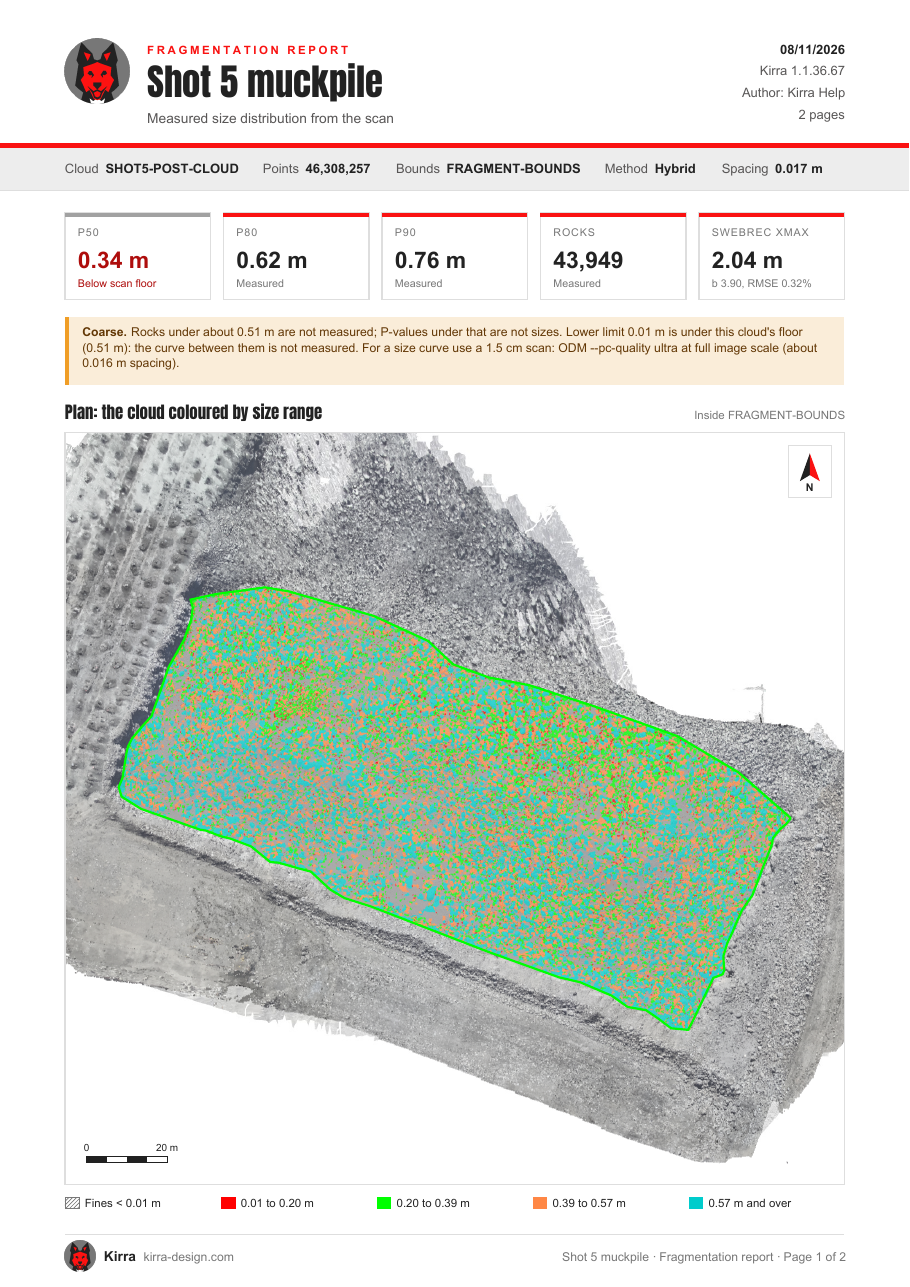
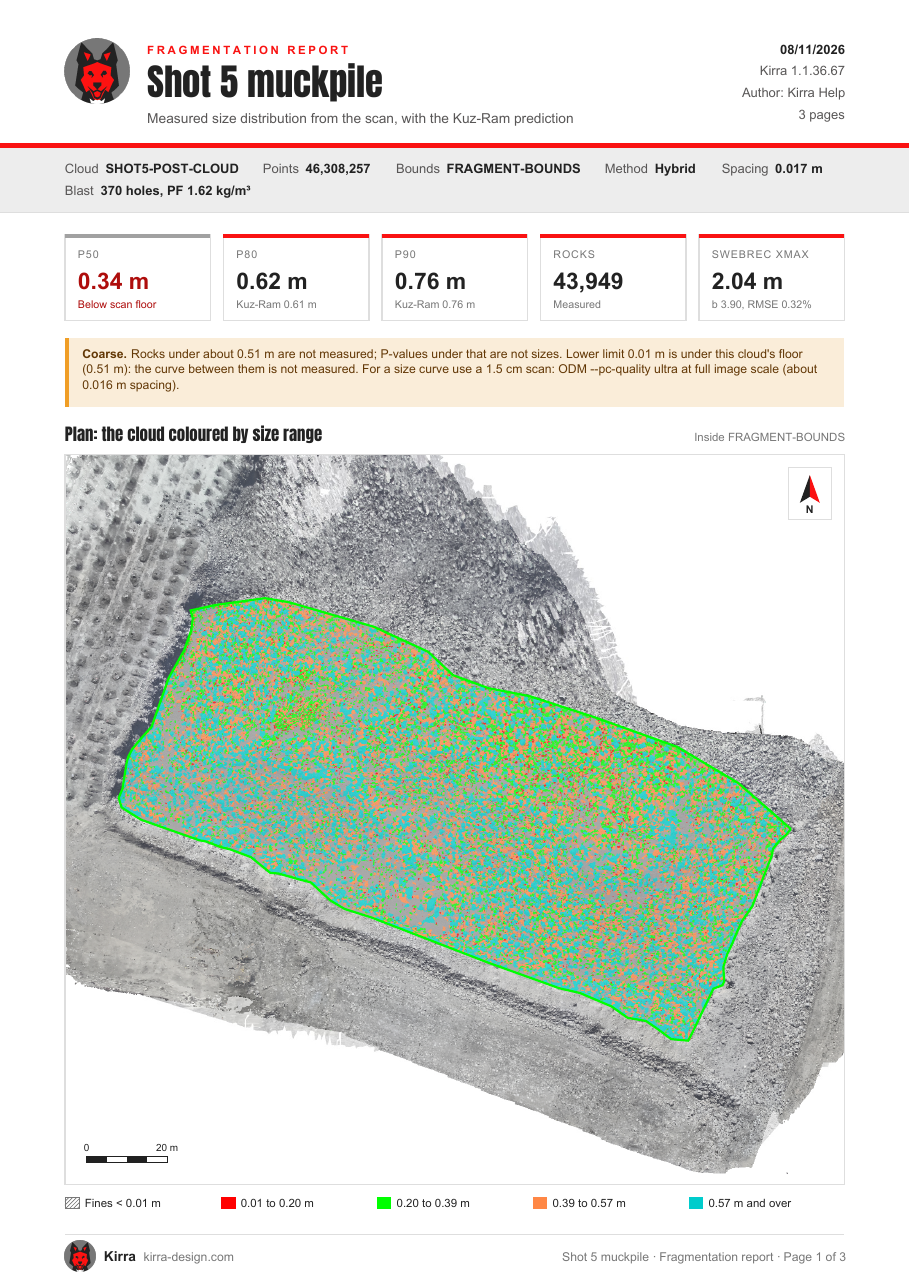
Docs: Fragments - a Kuz-Ram result (SHOT5, A 17), its curve, and the three-page report
Kuz-Ram tab with a result, the Kuz-Ram curve on the Size curve tab, report
page 3 and the preview; report pages re-rendered from the 3-page PDF.

Changed region(s): [[0.0615, 0.1243, 0.9231, 0.9324]]

diff --git a/surfaces/fragments.md b/surfaces/fragments.md
@@ -197,7 +197,22 @@ beside what the scan measured.
 | **Drilling deviation (m)**, **Rock P-wave velocity (km/s)**, **Delay scatter (ms)**, **Fallback RWS (% ANFO)** | The blast inputs the model needs beyond the holes and their charging. |
 
 The prediction is worked out from the blast's holes and their charging; each hole's rock volume is
-its burden × spacing × bench. When there is a result, the report gains a Kuz-Ram page.
+its burden × spacing × bench.
+
+![The Kuz-Ram tab with a result for SHOT5 and rock factor A 17: the Kuz-Ram and measured P-values side by side, and the blast's minimum, median and maximum for each input](../screenshots/FragmentsKuzRamResult.png)
+
+*A result for the blast SHOT5 with **A** = 17. The note at the top gives the prediction (P50 0.38 m,
+P80 0.61 m, uniformity n 1.77) and says which inputs were held at the model's limits. The table sets
+the Kuz-Ram P-values against the measured ones, and the blast table gives each input's minimum,
+median and maximum over its holes.*
+
+With a result, the **Size curve** tab draws the Kuz-Ram curve over the measured one, and the
+P-value table gains a **Kuz-Ram (m)** row. The report gains a Kuz-Ram page.
+
+![The Size curve tab with the Kuz-Ram curve in blue over the measured curve and the Swebrec fit, and the P-value table with Measured and Kuz-Ram rows](../screenshots/FragmentsSizeCurveKuzRam.png)
+
+*Above the 0.51 m scan floor the two curves lie almost on top of each other. Below it the scan cannot
+confirm the prediction.*
 
 The orientation of a joint set from [Facets and Joint Sets](facets-joint-sets.md) helps choose
 **Joints to the face**.
@@ -237,13 +252,19 @@ these fragments were found. Run again to update them."*
 |---|---|
 | **1** | The title, date, Kirra version and author; the cloud, its points, the area, the method and the point spacing; five summary cards (**P50**, **P80**, **P90**, **Rocks** and the fit); the scan-density note; and a plan of the cloud coloured by size range inside the area, in the scan's own colours outside it, with a north arrow, a scale bar and the size-range legend |
 | **2** | The size curve, the size-range bars (fines hatched), the P-values with those under the scan floor in red, the run's numbers, the method and its reference, and a disclaimer |
-| **3** | Only when the **Kuz-Ram** tab has a result: the Kuz-Ram prediction beside the measured curve |
+| **3** | Only when the **Kuz-Ram** tab has a result: the Kuz-Ram curve over the measured one, the P-values side by side with their difference, a note on where they agree, the blast's inputs (minimum, median, maximum), the rock factor and model settings, and the model's reference |
 
 | Page 1 | Page 2 |
 |---|---|
 | ![Fragmentation Report page 1: the header, five summary cards, the scan-density note and a plan of the muckpile coloured by size range](../screenshots/FragmentReportPage1.png) | ![Fragmentation Report page 2: the size curve, the size-range bars, the P-values, the run's numbers, the method and the disclaimer](../screenshots/FragmentReportPage2.png) |
 
-*The two-page report from the run above. A card in red, like P50 here, is under the scan's floor.*
+| Page 3 (with a Kuz-Ram result) | The preview |
+|---|---|
+| ![Fragmentation Report page 3: the Kuz-Ram curve over the measured curve, the P-values and their difference, the blast's inputs and the model settings](../screenshots/FragmentReportPage3.png) | ![The Fragmentation Report preview: the file name, the three page thumbnails and page 1, with Discard and Save PDF](../screenshots/FragmentReportPreview.png) |
+
+*The three-page report from the run above, with the Kuz-Ram result. On page 1 the P80 and P90 cards
+show the Kuz-Ram value under the measured one, and a card in red, like P50 here, is under the scan's
+floor.*
 
 ---
 
